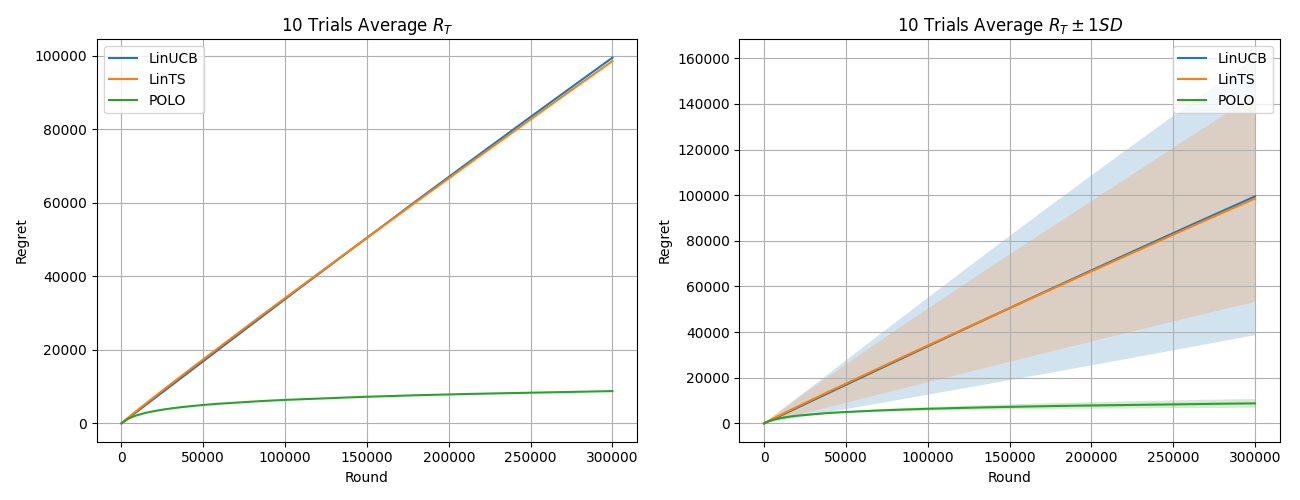
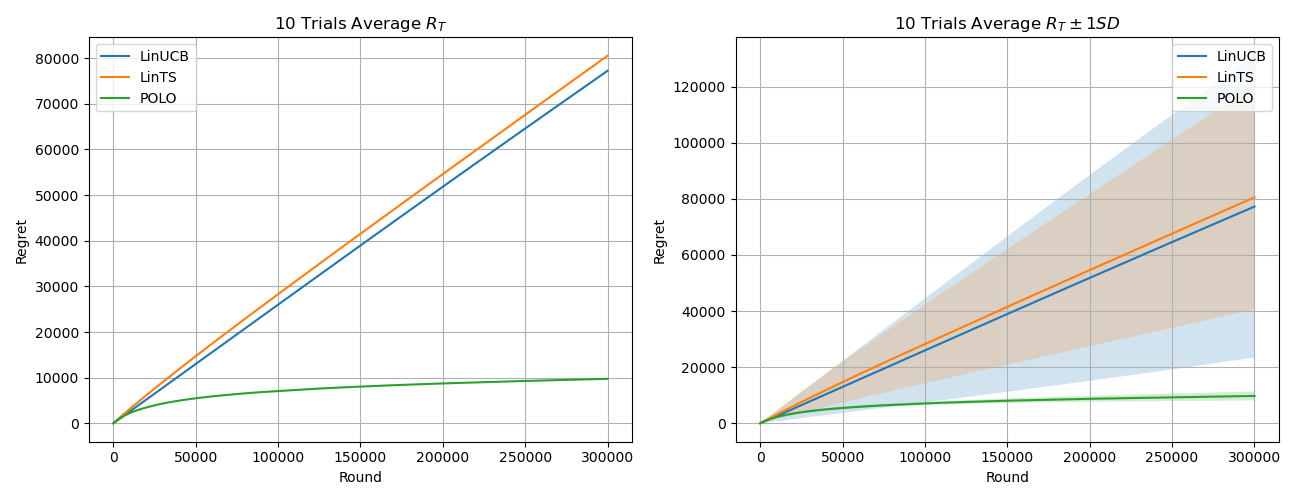
upload final files

diff --git a/latent-contextual-bandit/modules/compare_v4.py b/latent-contextual-bandit/modules/compare_v4.py
@@ -16,7 +16,7 @@ FEAT_DICT = {
     ("uniform", False): r"$\sim Unif_{\Sigma_k}$"
 }
 
-MOTHER_PATH = "/home/sungwoopark/bandit-research/latent-contextual-bandit/modules/final"
+MOTHER_PATH = "./final"
 
 PATH_DICT = {
     ("full", "fixed"): "full/fixed_vary/",
@@ -160,7 +160,7 @@ def show_result(regrets:dict, figsize:tuple=(13, 5)):
     ax1.grid(True)
     ax1.set_xlabel("Round")
     ax1.set_ylabel(r"Regret")
-    ax1.set_title(r"10 Trials Average $R_T$")
+    # ax1.set_title(r"10 Trials Average $R_T$")
     ax1.legend()
     
     for key in regrets:
@@ -172,7 +172,7 @@ def show_result(regrets:dict, figsize:tuple=(13, 5)):
     ax2.grid(True)
     ax2.set_xlabel("Round")
     ax2.set_ylabel("Regret")
-    ax2.set_title(r"10 Trials Average $R_T \pm 1SD$")
+    # ax2.set_title(r"10 Trials Average $R_T \pm 1SD$")
     ax2.legend()
     
     fig.tight_layout()    
